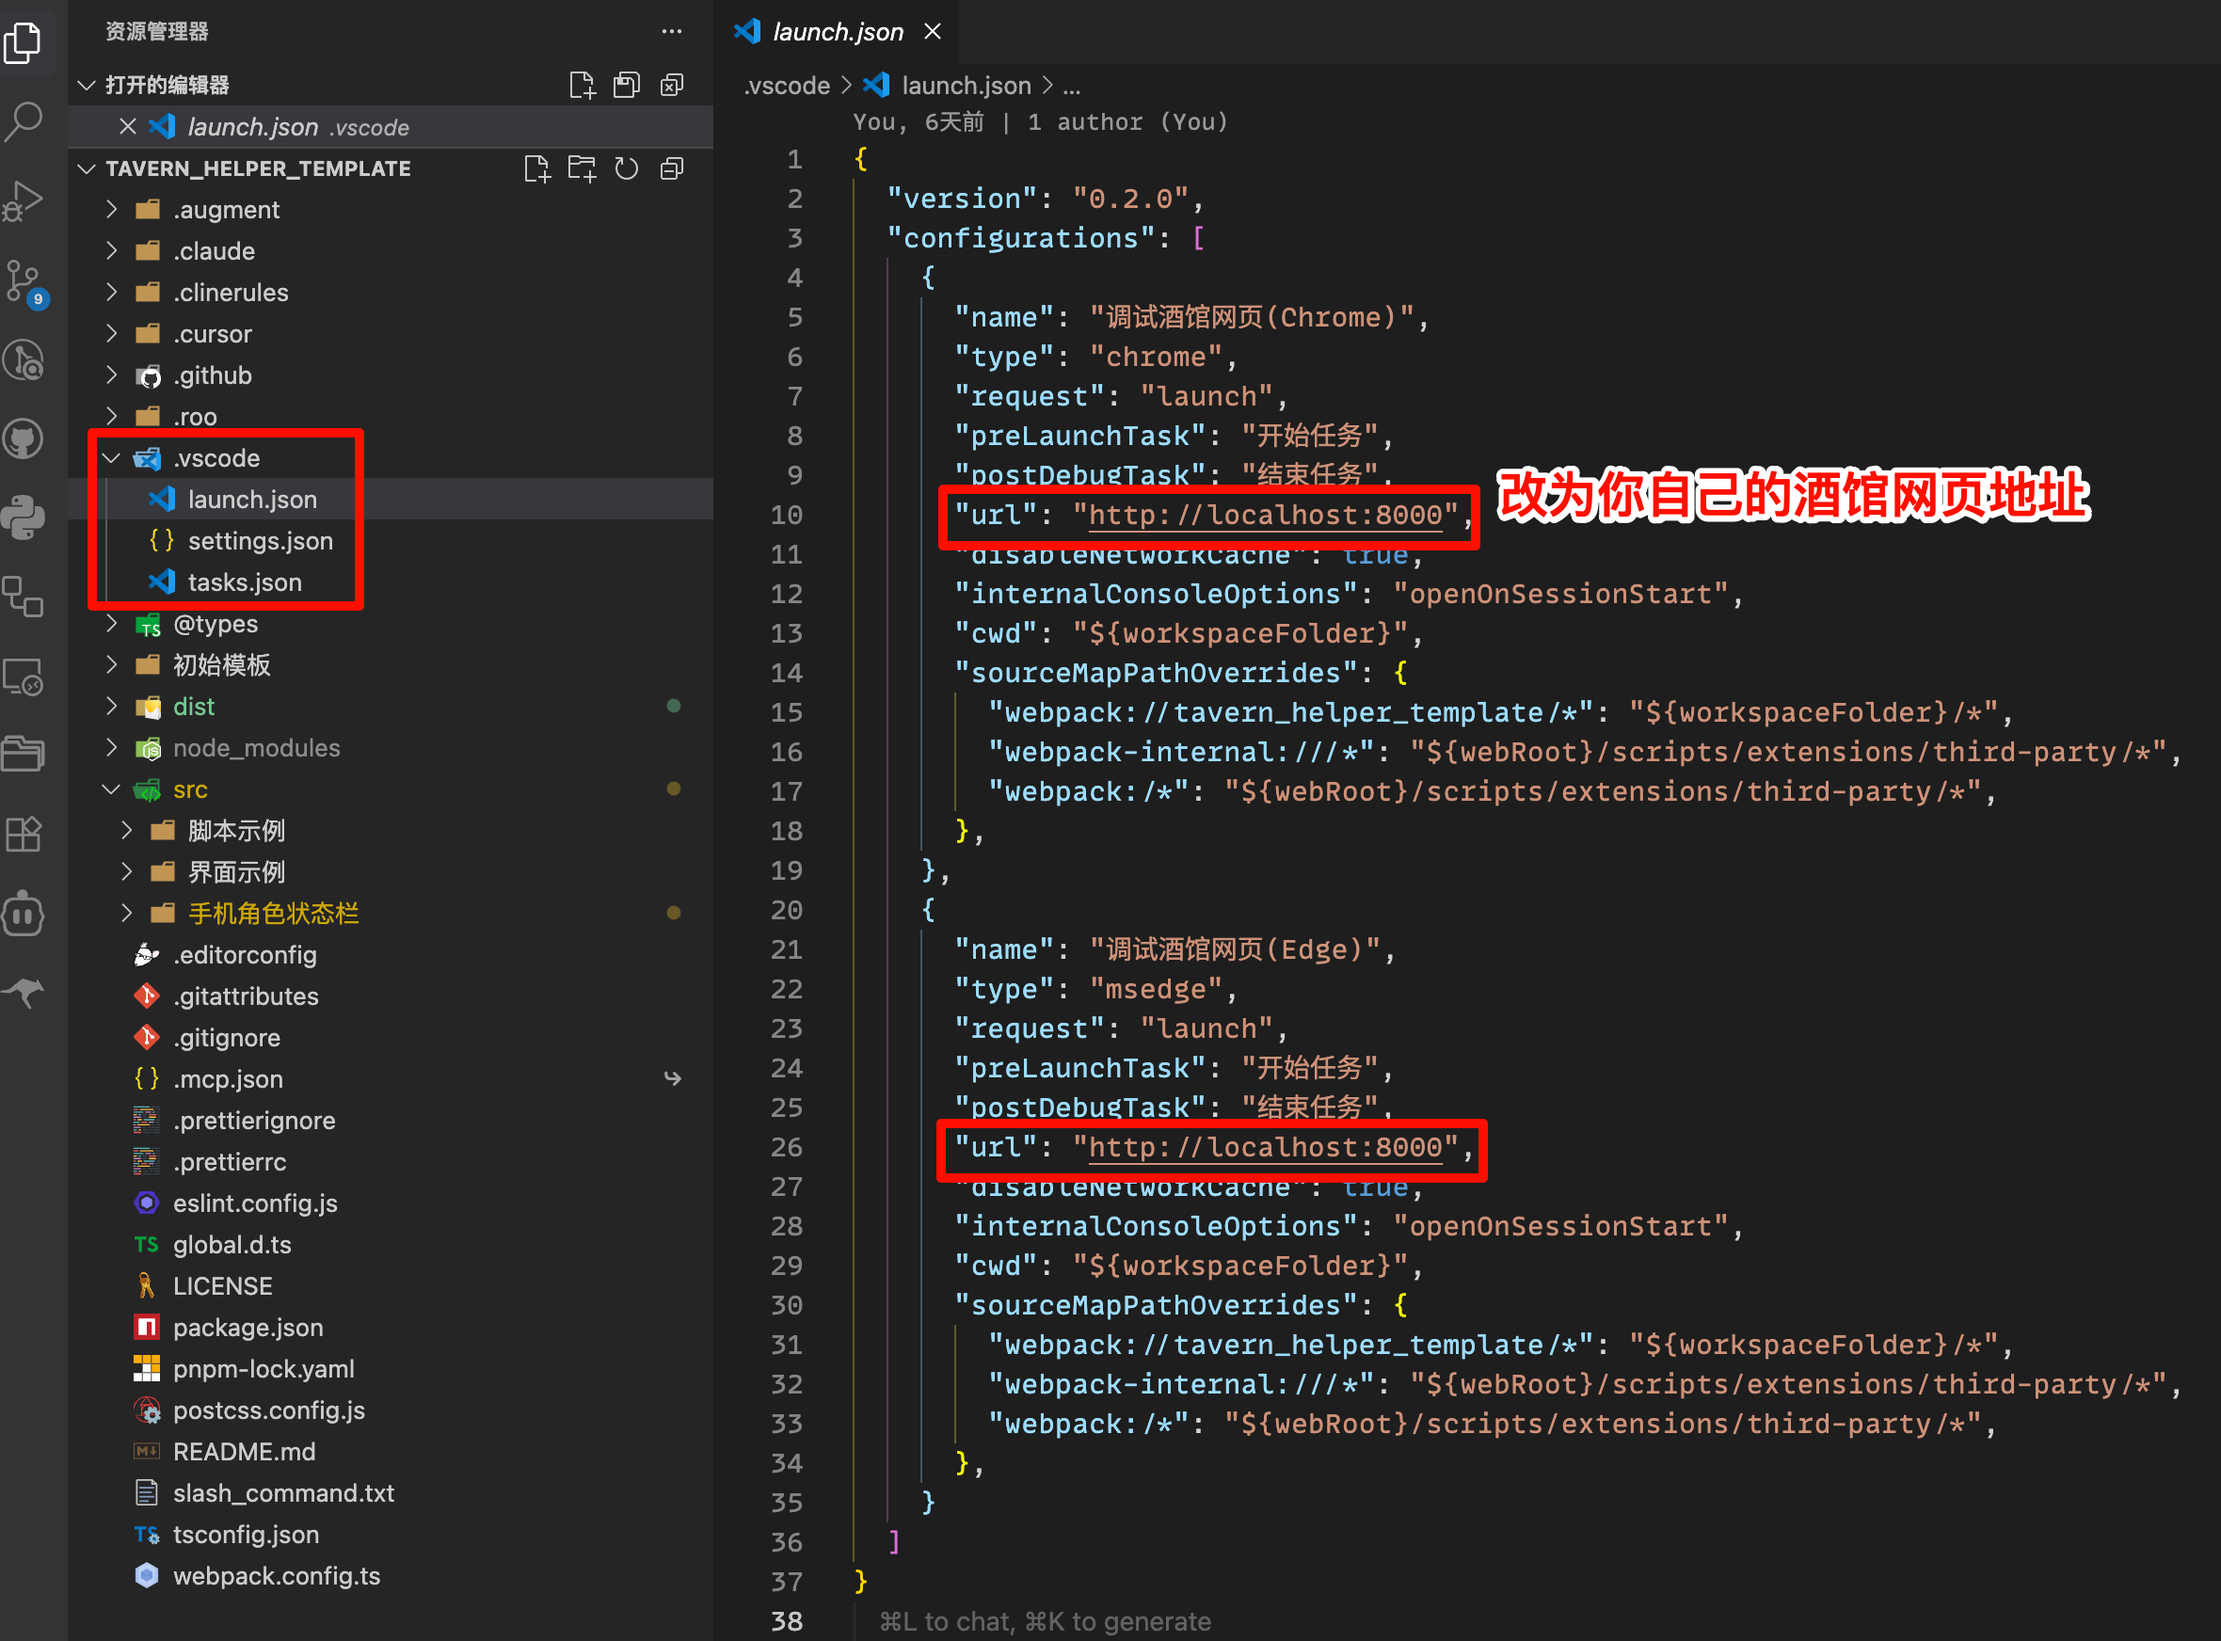
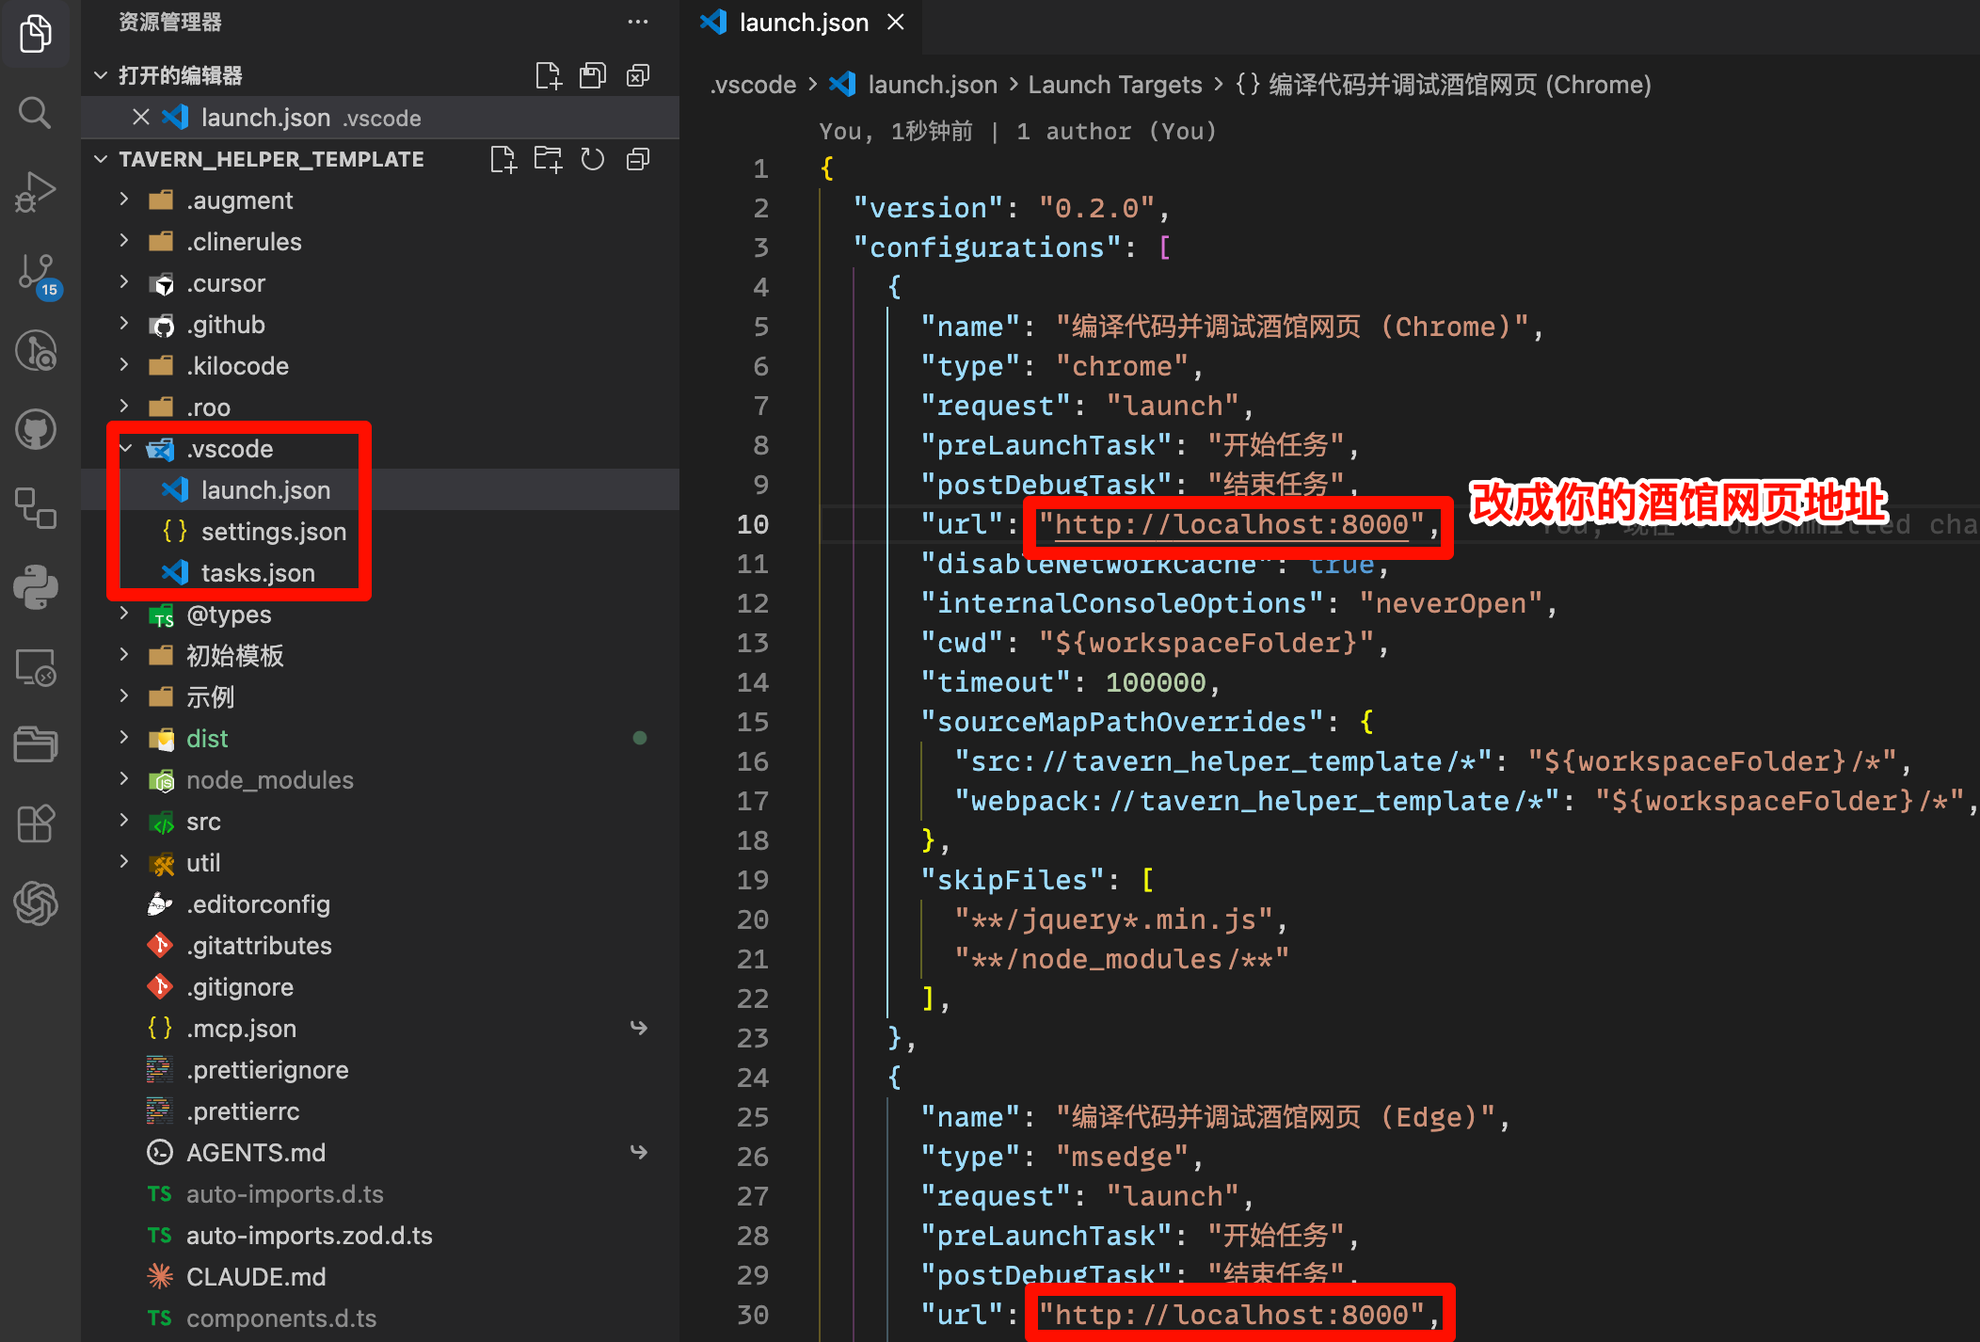
[青空莉/工具经验/实时编写前端界面或脚本] 更改编写模板结构

diff --git a/青空莉/工具经验/实时编写前端界面或脚本/进阶技巧/index.md b/青空莉/工具经验/实时编写前端界面或脚本/进阶技巧/index.md
@@ -77,9 +77,10 @@
 
 前端界面正则只需要定位这一段文本即可:
 
-```yaml
+```{code-block} yaml
+:emphasize-lines: 2
 脚本名称: [界面]状态栏
-查找正则表达式: <status>.*</status> # 里面具体是什么不由正则在意
+查找正则表达式: <status>.*</status> # 正则不需要在意里面具体是什么
 替换为: 前端界面的 html 代码块
 作用范围:
   - [x] 用户输入
@@ -95,15 +96,17 @@
 // 获取整条消息
 const chat_message = getChatMessages(getCurrentMessageId())[0];
 
-/* AI 按照你给定的格式自行捕获数据... 例如这里是 `<status>(.*)</status>` */
+// AI 按照你给定的格式自行捕获数据... 例如这里是 `<status>(.*)</status>`
 const match = chat_message.message.match(/<status>(.*)<\/status>/);
+
+/* AI 继续拆分数据里的各段文字, 从而在前端界面上使用 */
 ```
 
 #### 避免渲染卡顿
 
 前端界面的渲染过程为: 酒馆正则将内容替换成代码块并渲染出来 -> 酒馆助手将代码块替换为前端界面 (仅需几毫秒) -> 前端界面按代码加载 (取决于网络和设备性能).
 
-也就是说, 其实酒馆助手负责的部分仅需几毫秒, 前端界面的加载速度完全取决于玩家的网络、设备性能和……"酒馆正则将内容替换成代码块并渲染出来". \
+也就是说, **其实酒馆助手负责的部分仅需几毫秒, 前端界面的加载速度完全取决于玩家的网络、设备性能和……"酒馆正则将内容替换成代码块并渲染出来".** \
 酒馆渲染代码块这一过程是不可避免的! 而且, 哪怕酒馆助手已经优化了其中一个环节, 它还是非常卡——前端界面代码越多越卡!
 
 为此, 你可以像下文{ref}`发布会自动更新的前端界面、脚本或美化样式`那样, 将 html 转换为链接, 而正则代码块里只加载链接. 这样酒馆需要渲染的代码块内容没多少, 自然不会卡顿.
@@ -216,7 +219,7 @@ noass 等压缩相邻消息、合并消息的功能就是这么做的, 例如{do
 
 见于{doc}`/青空莉/工具经验/酒馆如何处理世界书/index`.
 
-### 流式传输、同层前端界面
+### 制作流式或同层前端界面
 
 #### 简单方案
 
@@ -281,7 +284,7 @@ noass 等压缩相邻消息、合并消息的功能就是这么做的, 例如{do
 
 ### 使用 vue 编写前端界面
 
-酒馆助手前端界面和脚本可以直接使用 vue, 它会让界面制作变得更为简单. `src/界面示例` 就是这么做的.
+酒馆助手前端界面和脚本可以直接使用 vue, 它会让界面制作变得更为简单. `示例/界面示例` 就是这么做的.
 
 :::{hint}
 如果你想制作不依赖于酒馆的单独页面, 则也可以使用 <https://github.com/StageDog/vue_template>.

diff --git a/青空莉/工具经验/实时编写前端界面或脚本/实际编写/index.md b/青空莉/工具经验/实时编写前端界面或脚本/实际编写/index.md
@@ -4,9 +4,9 @@
 
 区分了脚本和前端界面, 我们现在可以实际编写它; 如果你不知道酒馆助手提供了哪些功能, 可以查阅[酒馆助手文档](https://n0vi028.github.io/JS-Slash-Runner-Doc/).
 
-**以下内容你都可以先用示例角色卡、`src/脚本示例` 和 `src/界面示例` 先过一遍, 别急着搓自己的东西.** \
-**以下内容你都可以先用示例角色卡、`src/脚本示例` 和 `src/界面示例` 先过一遍, 别急着搓自己的东西.** \
-**以下内容你都可以先用示例角色卡、`src/脚本示例` 和 `src/界面示例` 先过一遍, 别急着搓自己的东西.**
+**以下内容你都可以先用{download}`示例角色卡 <../示例.png>`、`示例/脚本示例` 和 `示例/界面示例` 先过一遍, 别急着搓自己的东西.** \
+**以下内容你都可以先用{download}`示例角色卡 <../示例.png>`、`示例/脚本示例` 和 `示例/界面示例` 先过一遍, 别急着搓自己的东西.** \
+**以下内容你都可以先用{download}`示例角色卡 <../示例.png>`、`示例/脚本示例` 和 `示例/界面示例` 先过一遍, 别急着搓自己的东西.**
 
 ## 完整流程
 
@@ -181,4 +181,18 @@ AI 使用 MCP 时会有很明显的显示
 
 在确认项目完成后, 关闭 {kbd}`F5` 所打开的酒馆网页, 用 `pnpm build` 将项目打包成一个文件, 将打包结果用代码块包裹后复制到酒馆正则中 (如果是脚本则复制到酒馆助手脚本库脚本中的{menuselection}`脚本内容`部分).
 
-**注意你应该发布 `pnpm build` 的打包结果, 而不是 `pnpm watch` 的打包结果.** `pnpm watch` 打包结果的大小是 `pnpm build` 打包结果的数十倍.
+**注意你应该发布 `pnpm build` 的打包结果, 而不是 `pnpm watch` 的打包结果.** `pnpm watch` 是专门用于实时编写的, 它打包出来的文件大小是 `pnpm build` 的数十倍.
+
+## 下一步
+
+现在, 你已经可以拷打 AI 编写前端界面或脚本了.
+
+但如果你想知道:
+
+- 酒馆助手让你在前端界面或脚本里能做到什么
+- 前端界面正则的推荐写法
+- 怎么制作支持流式传输的前端界面
+- 怎么制作同层前端界面
+- ……
+
+那么请阅读进阶技巧相关部分.

diff --git a/络络/教程/手写mvu变量卡/使用编写模板/index.md b/络络/教程/手写mvu变量卡/使用编写模板/index.md
@@ -16,7 +16,7 @@
 例如, 让我们打开某个 {doc}`AI 编程助手 </青空莉/工具经验/实时编写前端界面或脚本/环境准备/index>` (目前推荐使用 Claude Code、Codex), 然后输入:
 
 ```text
-请参考`初始模板/角色卡`和`src/角色卡示例`, 为我新建一张 mvu 角色卡，它应该有夏霖孤独感、物品栏等变量，并有扁平化的状态栏
+请参考`初始模板/角色卡`和`示例/角色卡示例`, 为我在`src/夏霖`文件夹中新建一张 mvu 角色卡，它应该有夏霖孤独感、物品栏等变量，并有扁平化的状态栏
 ```
 
 :::{figure} 输入.png
@@ -25,7 +25,7 @@
 等 AI 执行完成, 正常情况下 AI 已经帮你写好变量结构脚本、initvar、变量更新命令、变量列表、变量输出格式、状态栏等了!
 
 :::{hint}
-为了泛用, 编写模板里并没有内置人设模板之类的x, 你可以参考[咩咩的 Gemini CLI 全自动写卡工作流](https://discord.com/channels/1291925535324110879/1425536223291904151/1425536223291904151)之类的, 自己给 VSCode/Cursor 添加 "世界书" (说白了把提示词发给 AI 就行了, 或者{doc}`加入到 "全局世界书" 里始终发给 AI </青空莉/工具经验/实时编写前端界面或脚本/环境配置/index>`w).
+为了泛用, 编写模板里并没有内置人设模板之类的x, 你可以参考[咩咩的 Gemini CLI 全自动写卡工作流](https://discord.com/channels/1291925535324110879/1425536223291904151/1425536223291904151)之类的, 自己给 VSCode/Cursor 添加 "世界书" (说白了把提示词发给 AI 就行了, 或者{doc}`加入到 "全局世界书" 里始终发给 AI </青空莉/工具经验/实时编写前端界面或脚本/环境准备/index>`).
 :::
 
 ### 如果你已经有变量结构脚本

diff --git a/青空莉/工具经验/实时编写角色卡、世界书或预设/使用说明/index.md b/青空莉/工具经验/实时编写角色卡、世界书或预设/使用说明/index.md
@@ -127,7 +127,7 @@ node tavern_sync.mjs bundle 猴子打字机
 
 如果你需要编写大型角色卡, **我非常非常推荐你使用我的编写模板**. 一开始可能会很不适应, 但习惯后, 它将允许你更统一地自行或让 AI 编写变量角色卡、前端界面或脚本. 请阅读{doc}`/青空莉/工具经验/实时编写前端界面或脚本/环境准备/index`来配置它, 模板的使用说明也在其中.
 
-配置好后, 你会发现文件夹内已经有了同步脚本 `tavern_sync.mjs` 和配置文件 `tavern_sync.yaml`, 并且在 `src` 文件夹内也有 `角色卡示例` 文件夹, 其内存放了这个角色卡的第一条消息、脚本、界面、世界书等内容:
+配置好后, 你会发现文件夹内已经有了同步脚本 `tavern_sync.mjs` 和配置文件 `tavern_sync.yaml`, 并且在 `示例` 文件夹内也有 `角色卡` 文件夹, 其内存放了这个角色卡的第一条消息、脚本、界面、世界书等内容:
 
 - 第一条消息: 目前还不支持实时修改, 但你可以存到这个文件夹里统一管理
 - 脚本: 编写模板支持运行 `pnpm watch` 来实时修改脚本

diff --git a/络络/教程/手写mvu变量卡/手写变量结构/index.md b/络络/教程/手写mvu变量卡/手写变量结构/index.md
@@ -268,7 +268,7 @@ export const Schema = z.object({
 依存度: 待初始化
 ```
 
-当然, 如果你是在开局制作了一个**专门的前端界面**让玩家设置主角出身、选择开局, 可以直接按{doc}`/络络/教程/手写mvu变量卡/脚本控制变量`和{doc}`/络络/教程/手写mvu变量卡/状态栏`**在前端界面中直接修改变量, 而不必指望 AI 正确输出.**
+当然, 如果你是在开局制作了一个**专门的前端界面**让玩家设置主角出身、选择开局, 可以直接按{doc}`/络络/教程/手写mvu变量卡/脚本控制变量/index`和{doc}`/络络/教程/手写mvu变量卡/状态栏/index`**在前端界面中直接修改变量, 而不必指望 AI 正确输出.**
 
 ## `z.record(键, 值)`: 字段不固定的对象
 

diff --git a/青空莉/工具经验/实时编写前端界面或脚本/阅读示例/index.md b/青空莉/工具经验/实时编写前端界面或脚本/阅读示例/index.md
@@ -9,7 +9,7 @@
 :::{figure} 打开角色卡.png
 :::
 
-这分别对应了酒馆助手所支持的两类向酒馆注入代码的方式, 与模板文件夹中的 `src/脚本示例` 和 `src/界面示例` 文件夹一一对应.
+这分别对应了酒馆助手所支持的两类向酒馆注入代码的方式, 与模板文件夹中的 `脚本/脚本示例` 和 `界面/界面示例` 文件夹一一对应.
 
 ## 脚本: 在后台运行一段代码
 
